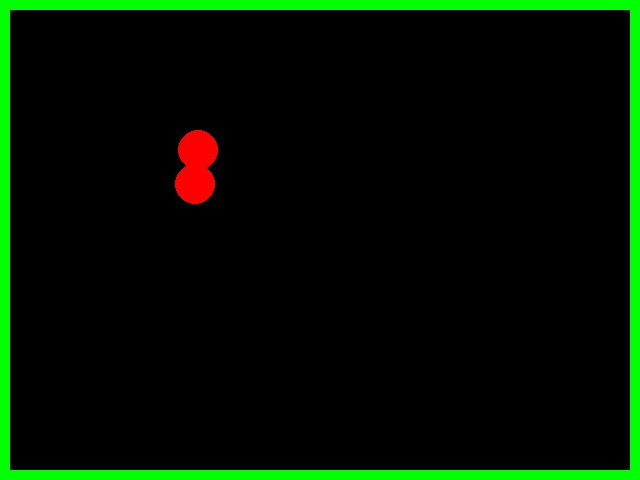
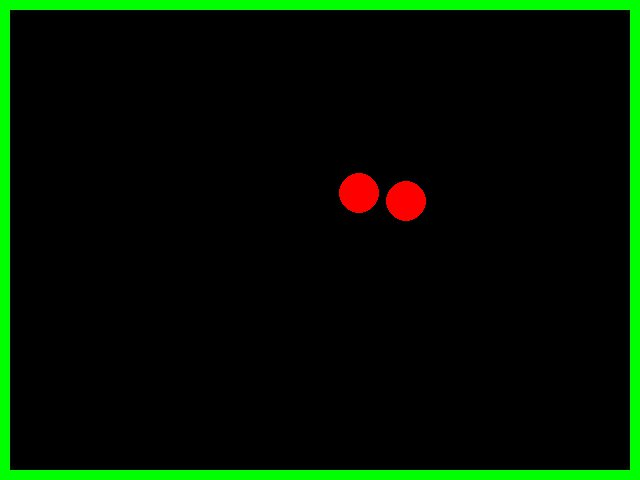
More work on ball collisions

Changed region(s): [[0.5312, 0.3438, 0.6875, 0.4688], [0.25, 0.25, 0.3438, 0.4375]]

diff --git a/states/pool_game_state.py b/states/pool_game_state.py
@@ -6,7 +6,7 @@ from states.state import State
 from pygame import Rect, Vector2
 import pygame
 
-from utils import BASE_SIZE, check_sides, circle_intersection
+from utils import BASE_SIZE, check_sides, circle_intersection, normalize_angle_rads
 
 class Ball(Entity):
     FRICTION = 0.02
@@ -36,6 +36,9 @@ class Ball(Entity):
             self.velocity.y = 0
         super().update(delta, **kwargs)
 
+    def get_momentum(self):
+        return self.mass * self.velocity
+
     def apply_force(self, force: Vector2):
         self.forces.append(force)
 
@@ -44,34 +47,6 @@ class Ball(Entity):
         for force in self.forces:
             s += force
         return s
-
-    def collide_balls(self, delta, balls):
-        # Sweep through time to find the initial intersection point
-        future = self.get_pos_at_time(delta)
-        future_rect = self.get_rect()
-        future_rect.center = [future.x, future.y]
-        for ball in balls:
-            if ball == self:
-                continue
-            ball_future = ball.get_pos_at_time(delta)
-            ball_rect = ball.get_rect()
-            ball_rect.center = [ball_future.x, ball_future.y]
-            if future_rect.colliderect(ball_rect): # Fast rectangle collision test
-                # Perform a better test
-                if circle_intersection(future, ball.get_pos_at_time(delta), Ball.RADIUS) and ball.velocity.magnitude() == 0:
-                    # Sweep back in time
-
-                    intersected_time = self.sweep_circle(delta, ball) # Potentially really expensive, we'll see!
-                    if(intersected_time is not None):
-                        my_int_pos = self.get_pos_at_time(intersected_time)
-                        ball_int_pos = ball.get_pos_at_time(intersected_time)
-                        difference = my_int_pos - ball_int_pos
-                        tangent_slope = math.degrees(math.atan2(difference.y,difference.x)) + 90
-
-                        print("Balls collided!")
-                        print(my_int_pos, ball_int_pos, tangent_slope)
-                        self.apply_collision_force(ball, tangent_slope)
-                        pygame.event.post(pygame.event.Event(pygame.USEREVENT + 1))
 
     def sweep_circle(self, delta, ball):
         current_time = delta
@@ -87,7 +62,7 @@ class Ball(Entity):
                 return current_time
         print("Sweep failed! No time found where intersection absent")    
 
-    def get_pos_at_time(self, delta):
+    def get_pos_at_time(self, delta) -> Vector2:
         return self.position + (self.velocity * delta)
 
     def collide_walls(self, delta, walls: list[Rect]):
@@ -117,24 +92,59 @@ class Ball(Entity):
             self.position.x = my_rect.centerx
             self.position.y = my_rect.centery
 
-    def apply_collision_force(self, other, collision_normal):
-        a = (self.velocity.angle_to(Vector2(1,0))) - collision_normal
-        
-        momentum_transfered_percent = math.sin(math.radians(a))
-        initial_velocity_magnitude = self.velocity.magnitude()
-        my_final_velocity_mag = initial_velocity_magnitude * (1 - momentum_transfered_percent)
-        other_final_velocity_mag = initial_velocity_magnitude * momentum_transfered_percent
-        my_result_angle = math.radians(collision_normal)
-        other_result_angle = math.radians(collision_normal - 90)
-        my_new_momentum = Vector2(my_final_velocity_mag * math.cos(my_result_angle), my_final_velocity_mag * math.sin(my_result_angle))
-        other_new_momentum = Vector2(other_final_velocity_mag * math.cos(other_result_angle), other_final_velocity_mag * math.sin(other_result_angle))
+    def collide_balls(self, delta, balls):
+            # Sweep through time to find the initial intersection point
+            future = self.get_pos_at_time(delta)
+            future_rect = self.get_rect()
+            future_rect.center = [future.x, future.y]
+            for ball in balls:
+                if ball == self:
+                    continue
+                ball_future = ball.get_pos_at_time(delta)
+                ball_rect = ball.get_rect()
+                ball_rect.center = [ball_future.x, ball_future.y]
+                if future_rect.colliderect(ball_rect): # Fast rectangle collision test
+                    # Perform a better test
+                    if circle_intersection(future, ball.get_pos_at_time(delta), Ball.RADIUS) and ball.velocity.magnitude() == 0:
+                        # Sweep back in time
 
-        my_change_momentum = my_new_momentum - self.velocity
-        other_change_momentum = other.velocity - other_new_momentum 
-        self.apply_force(my_change_momentum)
-        other.apply_force(other_change_momentum)
-        print(my_final_velocity_mag, other_final_velocity_mag, my_change_momentum, other_change_momentum)
-        print(a, momentum_transfered_percent, math.degrees(my_result_angle), math.degrees(other_result_angle))
+                        intersected_time = self.sweep_circle(delta, ball) # Potentially really expensive, we'll see!
+                        if(intersected_time is not None):
+                            my_int_pos = self.get_pos_at_time(intersected_time)
+                            ball_int_pos = ball.get_pos_at_time(intersected_time)
+                            difference: Vector2 = my_int_pos - ball_int_pos
+                            
+                            tangent_slope = math.atan2(difference.y, difference.x) + math.pi/2
+                            tangent_slope = normalize_angle_rads(tangent_slope)
+
+                            print("Balls collided!")
+                            print(my_int_pos, ball_int_pos, math.degrees(tangent_slope))
+                            self.apply_collision_force(ball, tangent_slope)
+                            pygame.event.post(pygame.event.Event(pygame.USEREVENT + 1))
+
+    def apply_collision_force(self, other, collision_normal):
+        my_result_angle = collision_normal - math.pi
+        other_result_angle = collision_normal - math.pi/2
+
+        print(f"my_result_angle={math.degrees(my_result_angle)}")
+        print(f"other_result_angle={math.degrees(other_result_angle)}")
+
+        momentum_initial = self.get_momentum().magnitude()
+        my_momentum_final = momentum_initial * math.cos(my_result_angle)
+        other_momentum_final = momentum_initial * math.sin(collision_normal)
+
+        print(f"initial_momentum={momentum_initial}")
+        print(f"my_momentum_final={my_momentum_final}")
+        print(f"other_momentum_final={other_momentum_final}")
+
+        my_change_momentum = my_momentum_final - momentum_initial 
+        other_change_momentum = other_momentum_final - other.get_momentum().magnitude()
+
+        print(f"my_change_momentum={my_change_momentum}")
+        print(f"other_change_momentum={other_change_momentum}")
+
+        self.apply_force(Vector2(my_change_momentum * math.sin(my_result_angle), my_change_momentum * math.cos(my_result_angle)))
+        other.apply_force(Vector2(other_change_momentum * math.cos(other_result_angle), other_change_momentum * math.sin(other_result_angle)))
 
     def apply_friction(self):
         self.apply_force(self.velocity * -Ball.FRICTION)
@@ -187,6 +197,9 @@ class PoolGameState(State):
                 difference *= 2
                 self.getCueBall().apply_force(difference)
                 self.aim = None
+            if event.type == pygame.KEYUP:
+                if event.key == pygame.K_o:
+                    self.run_test(180)
         
         for ball in self.balls:
             ball.update(delta, walls=self.walls, balls=self.balls)
@@ -204,3 +217,14 @@ class PoolGameState(State):
     def draw_walls(self, screen):
         for wall in self.walls:
             pygame.draw.rect(screen, (0,255,0), wall)
+
+    def run_test(self, launch_angle):
+        a = math.radians(launch_angle)
+        self.balls[0].position = Vector2(300,200)
+        self.balls[1].position = Vector2(300,400)
+
+        self.balls[0].velocity = Vector2(0,0)
+        self.balls[1].velocity = Vector2(0,0)
+
+        self.balls[0].apply_force(Vector2(1000 * math.sin(a), 1000 * math.cos(a)))
+        

diff --git a/utils.py b/utils.py
@@ -47,11 +47,24 @@ def check_sides(rect1: pygame.Rect, rect2: pygame.Rect) -> str:
         return "bottom"
 
 def circle_intersection(pos1: pygame.Vector2, pos2: pygame.Vector2, radius) -> bool:
-    dx = pos1.x - pos2.x;
-    dy = pos1.y - pos2.y;
+    dx = pos1.x - pos2.x
+    dy = pos1.y - pos2.y
     r = radius * 2
-    return dx * dx + dy * dy <= (r * r);
+    return dx * dx + dy * dy <= (r * r)
   
+def normalize_angle_deg(degrees: float):
+    return (degrees % 360 + 360) % 360
+
+def normalize_angle_rads(radians: float):
+    twopi = math.pi * 2
+    return (radians % twopi + twopi) % twopi
+
+def angle_to_horizontal(vec: pygame.Vector2) -> float:
+    # Returns angle to horizontal in radians
+    return vec.angle_to(HORIZONTAL)
+
+
 BASE_SIZE = (640, 480)
 PI = 3.1415
 TWOPI = PI * 2
+HORIZONTAL = pygame.Vector2(1,0)
